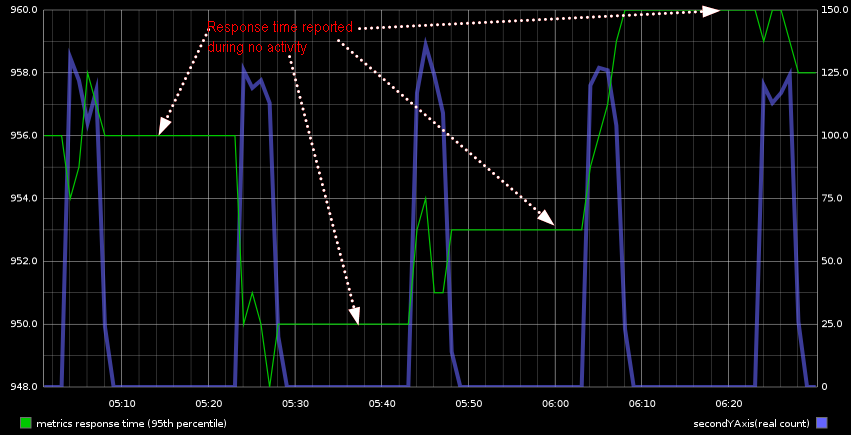
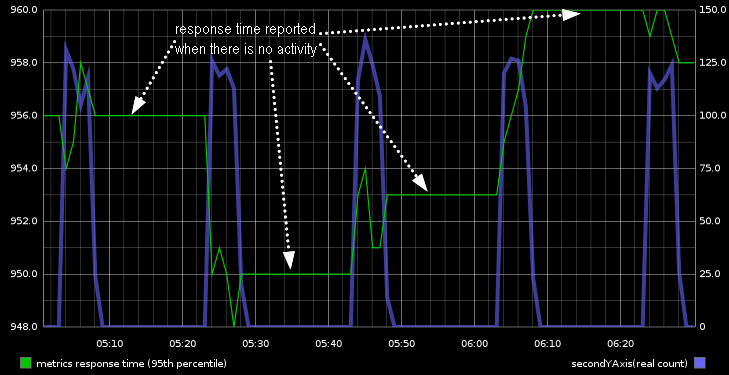
updated readme and smaller images

Changed region(s): [[0.0, 0.0, 1.0, 0.9973]]

diff --git a/README.md b/README.md
@@ -21,7 +21,10 @@ There is a process that starts every 20 minutes and runs for 5-10 minutes. It pe
 is recorded by Timer metric.
 
 ### Charts
-![Response times are reported even when there is no activity](output/images/scenario1-count.png "Response times are reported even when there is no activity")
+Response times are reported even when there is no activity
+
+![scenario1-count.png](output/images/scenario1-count.png)
+
 
 ## Scenario 2
 
@@ -36,11 +39,15 @@ and is sustained on this level for the next 10 minutes. 95th percentile reported
 response time and keeps reporting 30ms through out the entire lifetime of the process.
 
 ### Charts
-![Timer missed spike in response time](output/images/scenario2-95thpercentile.png "Timer missed spike in response time")
+Timer missed spike in response time
 
 Chart has logarithmic scale and that's why all zero values were replaced with 0.5. In other words 0.5 really means zero.
 
-![Timer.getOneMinuteRate() fades slowly which may be confusing](output/images/scenario2-count.png "Timer.getOneMinuteRate() fades slowly which may be confusing")
+![scenario2-95thpercentile.png](output/images/scenario2-95thpercentile.png)
+
+Timer.getOneMinuteRate() fades slowly which may be confusing
+
+![scenario2-count.png](output/images/scenario2-count.png)
 
 ##Scenario 3
 
@@ -59,10 +66,15 @@ for 95th percentile was observed on the sample set of values. Even greater error
 There is a precalculated set of 5000 values. They are being recorded as "timer" values. This process repeats every minute.
 
 ### Charts
-![Timer.getOneMinuteRate() is not the same as count per minute](output/images/scenario3-count.png "Timer.getOneMinuteRate() is not the same as count per minute")
+Timer.getOneMinuteRate() is not the same as count per minute
+This initial spike to ~33000 a minute rate (went through the roof) makes little sense either. Metrics count matches real count though!
 
-This initial spike to ~33000 a minute rate (went through the roof) makes little sense either.
+![scenario3-count.png](output/images/scenario3-count.png)
 
-![Reservoir sampling response time vs real response time](output/images/scenario3-95thpercentile.png "Reservoir sampling response time vs real response time")
+Reservoir sampling response time vs real response time
 
-![Reservoir sampling can be quite inaccurate. Up to 25% error margin on 95th percentile](output/images/scenario3-error-95thpercentile.png "Reservoir sampling can be quite inaccurate. Up to 25% error margin on 95th percentile")
+![scenario3-95thpercentile.png](output/images/scenario3-95thpercentile.png)
+
+Reservoir sampling can be quite inaccurate. Up to 25% error margin on 95th percentile
+
+![scenario3-error-95thpercentile.png](output/images/scenario3-error-95thpercentile.png)
